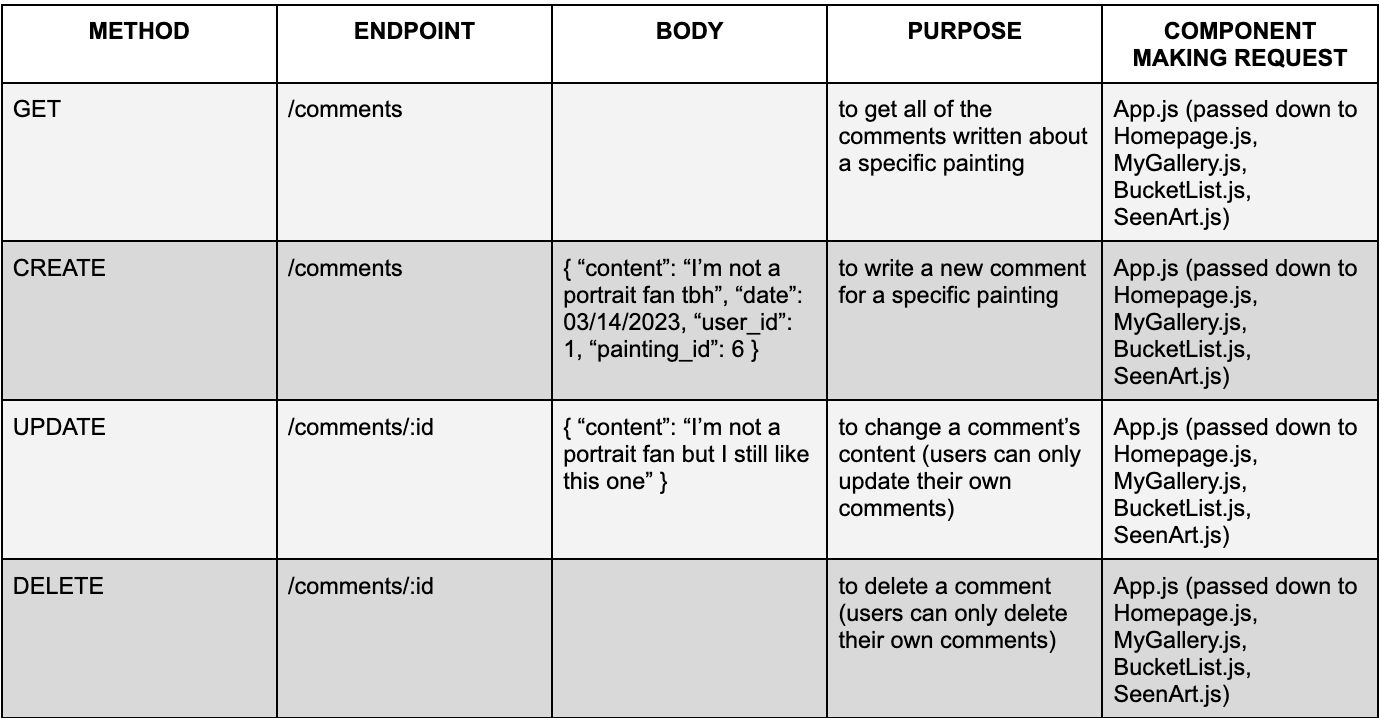
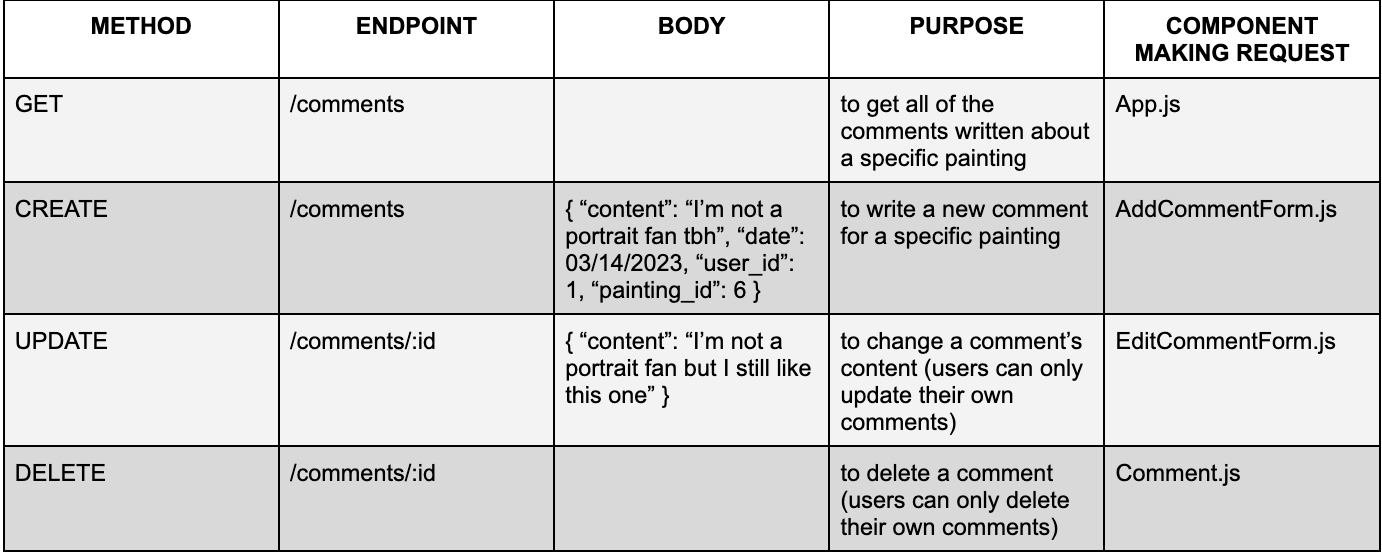
finished readme

Changed region(s): [[0.0, 0.0, 1.0, 1.0]]

diff --git a/db/seeds.rb b/db/seeds.rb
@@ -100,7 +100,7 @@ third_of_may_1888 = Painting.create!(name: "The Third of May, 1888", image: "htt
 adolf_loos = Painting.create!(name: "Adolf Loos", image: "https://uploads2.wikiart.org/images/oskar-kokoschka/adolf-loos-1909.jpg!Large.jpg", period: "Prewar Vienna", date: "1909", location: "Schloss Charlottenberg, Berlin", medium: "oil on canvas", dimensions: "29.25 x 36.75 in", artist_id: Artist.find(19).id)
 lorelei = Painting.create!(name: "Lorelei", image: "https://d7hftxdivxxvm.cloudfront.net/?height=647&quality=80&resize_to=fit&src=https%3A%2F%2Fd32dm0rphc51dk.cloudfront.net%2F_8IjJ8bSRZG_94VTPA3WfQ%2Fnormalized.jpg&width=800", period: "Abstract Expressionism", date: "1957", location: "Brooklyn Museum of Art, New York", medium: "oil on unprimed canvas", dimensions: "70.5 x 86.625 in", artist_id: Artist.find(20).id)
 # 21-30
-fowling_in_the_marshes = Painting.create!(name: "Fowling in the Marshes", image: "https://www.dailyartmagazine.com/wp-content/uploads/2021/10/cropped-1-Banner-1536x864.jpg", period: "Ancient Egypt", date: "18th dynasty (c. 1350 BCE)", location: "British Museum, London", medium: "wall painting", dimensions: "38.625 x 32.75 x 8.75 in", artist_id: Artist.find(21).id)
+fowling_in_the_marshes = Painting.create!(name: "Fowling in the Marshes", image: "https://media.britishmuseum.org/media/Repository/Documents/2014_10/4_17/a35e4410_bf5e_478c_9493_a3ba011bcc17/mid_00244330_001.jpg", period: "Ancient Egypt", date: "18th dynasty (c. 1350 BCE)", location: "British Museum, London", medium: "wall painting", dimensions: "38.625 x 32.75 x 8.75 in", artist_id: Artist.find(21).id)
 altarpiece_of_san_giobbe = Painting.create!(name: "Altarpiece of San Giobbe", image: "https://upload.wikimedia.org/wikipedia/commons/thumb/a/aa/Accademia_-_Pala_di_San_Giobbe_by_Giovanni_Bellini.jpg/600px-Accademia_-_Pala_di_San_Giobbe_by_Giovanni_Bellini.jpg", period: "Venetian Renaissance", date: "c. 1480-1490", location: "Gallerie dell'Accademia, Venice", medium: "tempera and oil on panel", dimensions: "185 x 102 in", artist_id: Artist.find(22).id)
 presentation_in_the_temple = Painting.create!(name: "The Presentation in the Temple", image: "https://uploads7.wikiart.org/00298/images/simon-vouet/vouet-temple-louvre.jpg!Large.jpg", period: "French Baroque", date: "1641", location: "Louvre, Paris", medium: "oil on canvas", dimensions: "154.75 x 98.375 in", artist_id: Artist.find(23).id)
 wanderer_above_the_sea_of_fog = Painting.create!(name: "The Wanderer Above the Sea of Fog", image: "https://uploads0.wikiart.org/images/caspar-david-friedrich/the-wanderer-above-the-sea-of-fog.jpg!Large.jpg", period: "German Romanticism", date: "c. 1818", location: "Kunsthalle, Hamburg, Germany", medium: "oil on canvas", dimensions: "38.75 x 29.5 in", artist_id: Artist.find(24).id)

diff --git a/README.md b/README.md
@@ -1,20 +1,48 @@
 # ArtSmart
 
-Welcome to ArtSmart!  ArtSmart is an app that allows users to browse art, save it to their favorites, and have discussions with others users by commenting on different pieces. The art available on the website comes from [The Metropolitan Museum of Art](https://github.com/metmuseum/) API which has data for their entire collection.
+Welcome to ArtSmart!  ArtSmart is an app for art enthusiasts and those that just want ot learn more.  Here, users can browse all of the art in the database, which I hope to continue expanding.  Each user has a gallery where they can keep their favorite paintngs.  In addition, users can comment on any and all of the pieces and hopefully spark discussion with other users!
 
-## Backend
+This app came into being as the capstone project in my software engineering bootcamp.  Personally, I am very interested in art, and I thought why not make an app for browsing, discoering new pieces, and meeting other enthusiasts.  The frontend is built with React.js and the backend with Ruby on Rails as an opportunity to showcase what I have learned in my course.
 
-ArtSmart utilizes Ruby on Rails to develop the backend.  There are four tables `User.rb`, `Artist.rb`, `Painting.rb`, and `Comment.rb`.
+In the future, I would like to expand the available features on this app.  I have many ideas, including custom galleries that users can create, a follow feature to connect different users, and an entire page devoted to the artists themselves, among others.
 
+## How to Install and Run
+To run this app, make sure to run `bundle install` and `npm install --prefix client` (or just `npm install` if you navigated into the client directory).  This installs the dependences for the front and backend that the app needs to function.
+
+To start the server, run `rails s`.  This will start the server on localhost:3000.  To run the frontend, first go to a new terminal, and run `npm start --prefix client` (or just `npm start` if you navigated into the client directory).  This will run the app on localhost:4000.
+
+## Using ArtSmart
+
+### Login/Signup
+To make use of any of the features ArtSmart offers, you must first make an account.  This requires a name, a unique username, a unique and valid email and a password.  If any of the fields do not meet the requirements, error messages will appear and guide users.
+
+### Homepage and MyGallery
+Upon a succesful login or signup, users are redirected to the app's homepage.  Of all of the pieces in the database, five are randomly selected and displayed.  Users can view more by clicking the button at the bottom of the last paiting.  All functionality regarding the pieces of art are present on the homepage and the user's gallery.  Users can add or remove paintings from their gallery, view comments, add comments, and edit or delete their own comments (this function is not available if they are not the user who wrote the comment).
+
+In the user's gallery, users can browse only the pieces that they have selected.  All functionality is still present here.
+
+### Profile and Account Information
+In the profile page, user's have the ability to view their account details (name, username, email), and change any of these details.  The requirements and validations still apply here, and error messages will appear and guide users if the input is invalid.
+
+From this page, users can also delete their account.  They are directed to a page that confirms they want to delete their account, and if they choose to, they are redirected to the login page.
+
+## Development Process
 ### Entity Relationship Diagram
 
-A user have many paintings and have many artists through paintings.  An artist has many paintings and many users through paintings.  A painting belongs to a user and an artist.  Finally, a painting has many comments, and each comment belongs to a painting.
+- A user has many comments and many favorites
+    - A user has many paintings through comments and also favorites
+- An artist has many paintings
+- A painting has many comments and many favorites
+    - A painting has many users through comments and also favorites
+    - A painting belongs to an artist
+- A favorite belongs to a user and a painting
+- A comment belongs to a user and a painting
 
-![Entity Relationship Diagram](public/images/erd.png)
+![EntityRelationship Diagram](public/images/erd.png)
 
 ### Model Validations
 
-The user model has many validations to ensure the integrity of the entered data.  Regex is used to make sure email and password inputs meet the various requirements.
+The user model has many validations to ensure the integrity of the entered data.
 The other models validate that the most essential data is present.
 
 ![Model Validations](public/images/validations.png)
@@ -25,69 +53,50 @@ The other models validate that the most essential data is present.
 
 ![User Routes](public/images/user-routes.png)
 
-**Painting** is allowed update and read capabilities.  Painting data is fetched and displayed depending on the specific criteria.  Also, a user favorite a painting and change the `user_favorite` attribute.
+**Painting** is only given read capabilities.  All paintings are fetched when a user logs in and then displayed according to the specific criteria.
 
-![Painting Routes](public/images/painting-routes.png)
+![Painting Routes](public/images/paintings-routes.png)
 
 **Comment** is also allowed full CRUD capabilities.  Users may view the comments for a specific painting, write and post comments, and edit and delete comments (if they belong to that user).
 
 ![Comment Routes](public/images/comment-routes.png)
 
-## Frontend
+**Favorites** is given read, post, and delete capabilities.  All favorites are fetched upon login, and then users can add a painting to their gallery (create a new favorite) or remove a painting from their gallery (delete a favorite).
 
-ArtSmart utilized React to develop the frontend.  There are a total of twelve components:
-- App.js
-- Login.js
-- Signup.js
-- Homepage.js
-- MyGallery.js
-- BucketList.js
-- SeenArt.js
-- Profile.js
-- Search.js
-- ArtList.js
-- ArtCard.js
-- DeleteAccount.js
-- Header.js
+![Favorite Routes](public/images/favorites-routes.png)
+
+## Frontend
 
 Component Tree:
 ![Component Tree](public/images/component-tree.png)
 
-### `App.js`
-**App** is the container component.  It holds all the children.
-
-### `Login.js`
-**Login** is the component that users are directed to when they go to the app.  They can either login and be directed to `Homepage.js` or they can click a button to be directed to `Signup.js`.
-
-### `Signup.js`
-**Signup** is the component where users can create an account with ArtSmart.  Upon successful creation, users are directed to `Homepage.js`.  `Signup.js` is making a POST request to `/users`.
-
-### `Homepage.js`
-**Homepage** is the component that users are directed to as soon as they login/signup.  It shows `Header.js` at the top and `ArtCard.js` of a randomly generated painting.
-
-### `MyGallery.js`
-**MyGallery** is the component that contains an `ArtCard.js` for every painting the user has added to their gallery.
-
-### `BucketList.js`
-**BucketList** is the component that contains an `ArtCard.js` for every painting the user has added to their bucket list.
-
-### `SeenArt.js`
-**SeenArt** is the component that contains an `ArtCard.js` for every painting the user has marked as "seen".
-
-### `ArtList.js`
-**ArtList** is the component that renders and holds an `ArtCard.js` for every piece of art that meets the given criteria.
-
-### `ArtCard.js`
-**ArtCard** is the that renders the details for every piece of art.
-
-### `Search.js`
-**Search** is visible on `Homepage.js` and allows users to filter for art based on the title of the piece, the artist, or the medium.  It renders `ArtList.js` with the appropriate responses.
-
-### `Profile.js`
-**Profile** is the component where users than view and update their personal information.  It also contains a button that directs users to `DeleteAccount.js` is they want to delete their account.
-
-### `DeleteAccount.js`
-**DeleteAccount** is the component where users confirm that they would like to delete their account.  Upon confirmation, users are redirected to `Signup.js`.
-
-### `Header.js`
-**Header** is the component where the navigation bar lives.  The navigation bar contains routes that allows users to navigate throughout the app.  It is visible on every component except `Login.js` and `Signup.js` because users have to be logged in to access the rest of the app's functionality.
+- `App.js`
+    - Container element
+- `Login.js`
+    - Users are directed to this page when they reach the app
+- `Signup.js`
+    - If users don't have an account, they create one here
+- `Header.js`
+    - Visible on all pages except Login.js and Signup.js.  Has links to all of app's pages.
+- `Homepage.js`
+    - Users are directed here after successful login/signup.  Displays five random pieces of art with button to continuously display five more until all are shown.
+- `MyGallery.js`
+    - Displays all of the pieces of art that a users has added to their gallery.
+- `Search.js`
+    - Filters art being displayed based on what the user types (only filters by name of art or artist)
+- `ArtList.js`
+    - Holds all of the cards for each piece of art being displayed
+- `ArtCard.js`
+    - Renders a card for each piece of art
+- `Comment.js`
+    - Show one comment with related functionality if available (users can only interact with a comment if it is theirs)
+- `AddCommentForm.js`
+    - Allows users to comment on a specific piece of art
+- `EditCommentForm.js`
+    - Allows users to edit their own comments
+- `Profile.js`
+    - Displays account information
+- `DeleteAccount.js`
+    - Asks user if they are sure they want to delete their account.  If yes, the account is deleted and the user is directed to the login page.  If no, then they are directed back to the homepage.
+- `EditAccountForm.js`
+    - Allows users to change their account information
